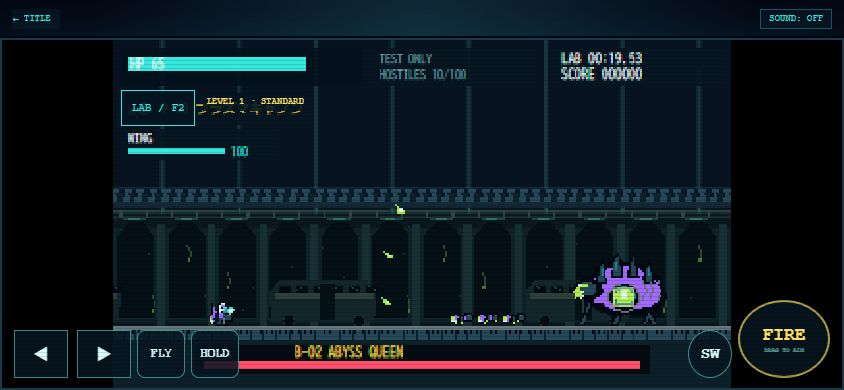
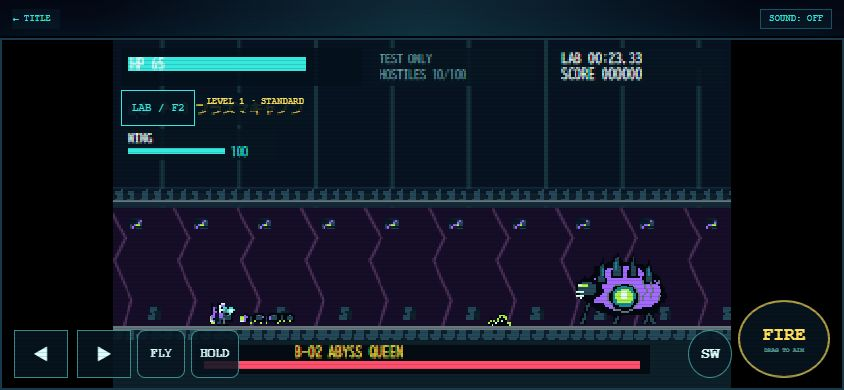
aaaa

Changed region(s): [[0.1232, 0.4615, 0.8626, 0.8615], [0.7085, 0.1231, 0.7701, 0.1846]]

diff --git a/031_ファミコン風地球防衛軍/js/game.js b/031_ファミコン風地球防衛軍/js/game.js
@@ -385,12 +385,17 @@ function drawWorld(g){
 }
 function drawUnderground(g,bounds){
   const tile=(index,x,y,height=16,width=16)=>ctx.drawImage(images.undergroundTiles,index%8*16,Math.floor(index/8)*16,width,height,x,y,width,height);
+  // The final chamber is organic rather than another copy of the subway hall.
+  if(bounds.right>4500){
+    ctx.fillStyle='#160e28';ctx.fillRect(Math.max(4500,bounds.left),0,bounds.right-Math.max(4500,bounds.left)+16,WORLD.ground);
+    for(let x=Math.max(4500,Math.floor(bounds.left/80)*80);x<bounds.right+80;x+=80){ctx.strokeStyle='#50325e';ctx.lineWidth=3;ctx.beginPath();ctx.moveTo(x,0);ctx.lineTo(x+20,38);ctx.lineTo(x+6,66);ctx.lineTo(x+28,116);ctx.lineTo(x+18,148);ctx.stroke();tile(11,x+26,12);tile(8,x+48,124)}
+  }
   ctx.fillStyle='#0d202a';ctx.fillRect(bounds.left-10,WORLD.ground,view.width+20,bounds.bottom-WORLD.ground+10);
-  for(let x=Math.floor(bounds.left/16)*16;x<bounds.right+16;x+=16)tile(0,x,WORLD.ground);
+  for(let x=Math.floor(bounds.left/16)*16;x<bounds.right+16;x+=16)tile(x>=3300?9:0,x,WORLD.ground);
   for(const p of g.platforms){if(p.active===false||p.kind==='barrier'||p.x+p.w<bounds.left||p.x>bounds.right)continue;
     ctx.fillStyle=p.kind==='pipe'?'#315d61':p.kind==='metal'?'#263e4e':'#152a38';ctx.fillRect(p.x,p.y,p.w,p.h??8);
     ctx.fillStyle=p.kind==='metal'?'#a0c6ab':'#517985';ctx.fillRect(p.x,p.y,p.w,2);
-    for(let x=Math.max(p.x,Math.floor(bounds.left/16)*16);x<p.x+p.w&&x<bounds.right;x+=16)tile(p.kind==='pipe'?3:p.kind==='cave'?8:p.kind==='wall'?2:0,x,p.y,Math.min(16,p.h??8),Math.min(16,p.x+p.w-x));
+    for(let x=Math.max(p.x,Math.floor(bounds.left/16)*16);x<p.x+p.w&&x<bounds.right;x+=16)tile(p.kind==='pipe'?3:p.kind==='cave'?10:p.kind==='wall'?2:p.kind==='ceiling'?1:0,x,p.y,Math.min(16,p.h??8),Math.min(16,p.x+p.w-x));
   }
   ctx.font='8px monospace';ctx.fillStyle='#8fe2ac';
   for(const [x,y,label] of [[2020,58,'UPPER →'],[2290,106,'LOWER →'],[3180,46,'MERGE →']])if(x>bounds.left&&x<bounds.right)ctx.fillText(label,x,y);
@@ -418,7 +423,7 @@ function drawEnemies(g){let deaths=0,trails=0;for(const e of g.enemies){const x=
     else{if(e.hitFlash>0){ctx.fillStyle="#fff7d5";ctx.fillRect(x-6,Math.round(e.y+e.h/2),12,2)}if(e.type==='nest'){ctx.fillStyle='#09121e';ctx.fillRect(x-24,e.y-8,48,5);ctx.fillStyle='#aef046';ctx.fillRect(x-24,e.y-8,48*e.hp/e.maxHp,5)}if(e.type==='queen'&&weakCore(e).open){const core=weakCore(e);ctx.strokeStyle='#fff08b';ctx.lineWidth=2;ctx.strokeRect(core.x-12,core.y-10,24,20)}}
   }}
 function drawUndergroundEnemy(e,frame,x,y){
-  if(e.type==='barrier'){ctx.drawImage(images.undergroundTiles,e.hp<e.maxHp/2?80:64,16,16,16,x-e.w/2,y,e.w,e.h);return}
+  if(e.type==='barrier'){ctx.drawImage(images.undergroundTiles,e.dead?96:e.hp<e.maxHp/2?80:64,16,16,16,x-e.w/2,y,e.w,e.h);return}
   ctx.drawImage(images[e.type],frame*e.w,0,e.w,e.h,x-e.w/2,Math.round(y),e.w,e.h);
 }
 function drawDeathGhost(e,x,y,angle,alpha,full){

diff --git a/031_ファミコン風地球防衛軍/js/weapons.js b/031_ファミコン風地球防衛軍/js/weapons.js
@@ -26,7 +26,7 @@ export function terrainContact(x,y,nx,ny,platforms,r=0,ceiling=false,world=WORLD
   if(nx>world.width-r)consider({t:(world.width-r-x)/(nx-x),nx:-1,ny:0});
   if(ny>world.ground-r)consider({t:(world.ground-r-y)/(ny-y),nx:0,ny:-1});
   if(ceiling&&ny<r)consider({t:(r-y)/(ny-y),nx:0,ny:1});
-  for(const pl of platforms)if(pl.active!==false)consider(segmentEntry(x,y,nx,ny,pl.x-r,pl.y-r,pl.x+pl.w+r,pl.y+(pl.h??8)+r));
+  for(const pl of platforms)if(pl.active!==false){const hit=segmentEntry(x,y,nx,ny,pl.x-r,pl.y-r,pl.x+pl.w+r,pl.y+(pl.h??8)+r);if(hit){hit.platform=pl;consider(hit)}}
   if(best){best.t=clamp(best.t,0,1);best.x=x+(nx-x)*best.t;best.y=y+(ny-y)*best.t}return best;
 }
 function surfaceAt(g,x,fromY){let y=WORLD.ground;for(const p of g.platforms)if(p.active!==false&&x>=p.x&&x<=p.x+p.w&&p.y>=fromY-.01)y=Math.min(y,p.y);return y}
@@ -119,7 +119,8 @@ function updateJobs(g,dt,api){
     if(j.timer<=0&&j.remaining>0){
       if(j.kind==="storm"){
         const e=nearest(g,j.x,j.y,w.targetRadius,j.hits,w.targetLimit),x=e?.x??j.x,y=e?e.y+e.h/2:Math.min(WORLD.ground,j.y+45);
-        const blocked=g.missionId==='M02'&&terrainContact(j.x,j.y-40,x,y,g.platforms,0,false,g.world??WORLD);
+        const obstruction=g.missionId==='M02'?terrainContact(j.x,j.y-40,x,y,g.platforms,0,false,g.world??WORLD):null;
+        const blocked=obstruction&&(!e?.platform||obstruction.platform!==e.platform);
         if(e&&!blocked){j.hits.set(e.uid,(j.hits.get(e.uid)||0)+1);api.damage(e,w.damage,{type:w.type,effectType:w.effectType,assetIndex:w.assetIndex,x,y,vx:0,vy:1})}
         api.effect({kind:"lightning",x:j.x,y:j.y-40,x2:x,y2:y,life:.16,max:.16,assetIndex:w.assetIndex});g.arsenal.stats.strikes++;
       }else{

diff --git a/031_ファミコン風地球防衛軍/docs/MISSION_02.md b/031_ファミコン風地球防衛軍/docs/MISSION_02.md
@@ -84,6 +84,8 @@ E-05/E-06/H-01/B-02は既存の死亡エンティティ・破片・LEVEL1〜3と
 
 関連モジュール（地形移動、武器、出現、カメラ、撃破、保存、LAB）に限定してテストした。M02専用テストは `tests/mission02.test.mjs`。
 
+最終結果：関連テスト199件成功・失敗0（12ファイルの198件と、最終描画修正後のM02カメラ端テスト1件）。うちM02専用44件（`node --test tests/mission02.test.mjs`）。共有変更の影響先としてdata / runtime / weapons / invasion / classes / class-movement / camera / impact / destruction / playground / lab-weapon-pickerを実行した。別プロジェクトや無関係な全画面GUI巡回は対象外。構文チェックと `git diff --check` も成功。
+
 | 項目 | 結果 |
 | --- | --- |
 | 旧M01クリア→M02 OPEN、GAME OVER/リトライ/再読込 | 成功、M03は選択不可 |
